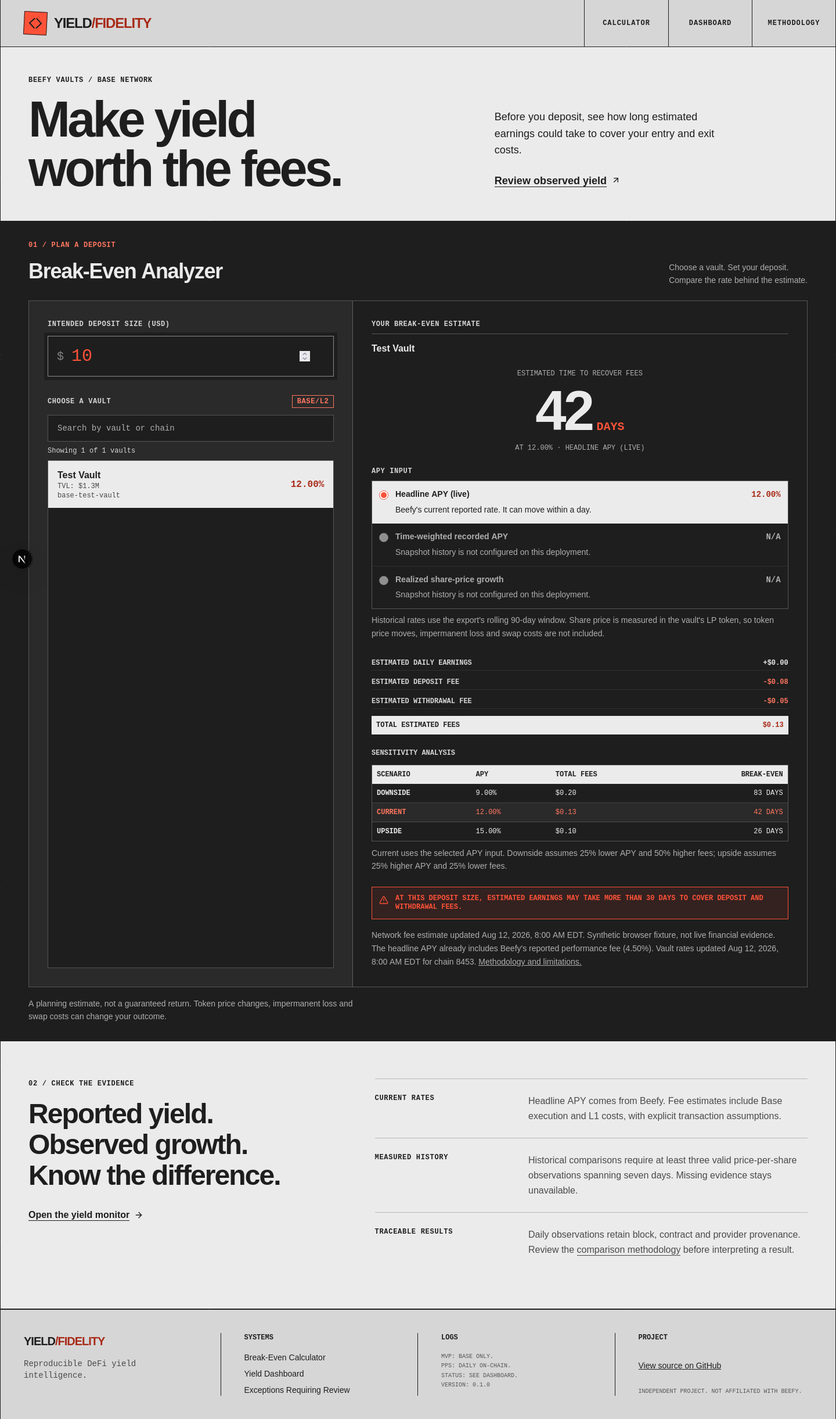
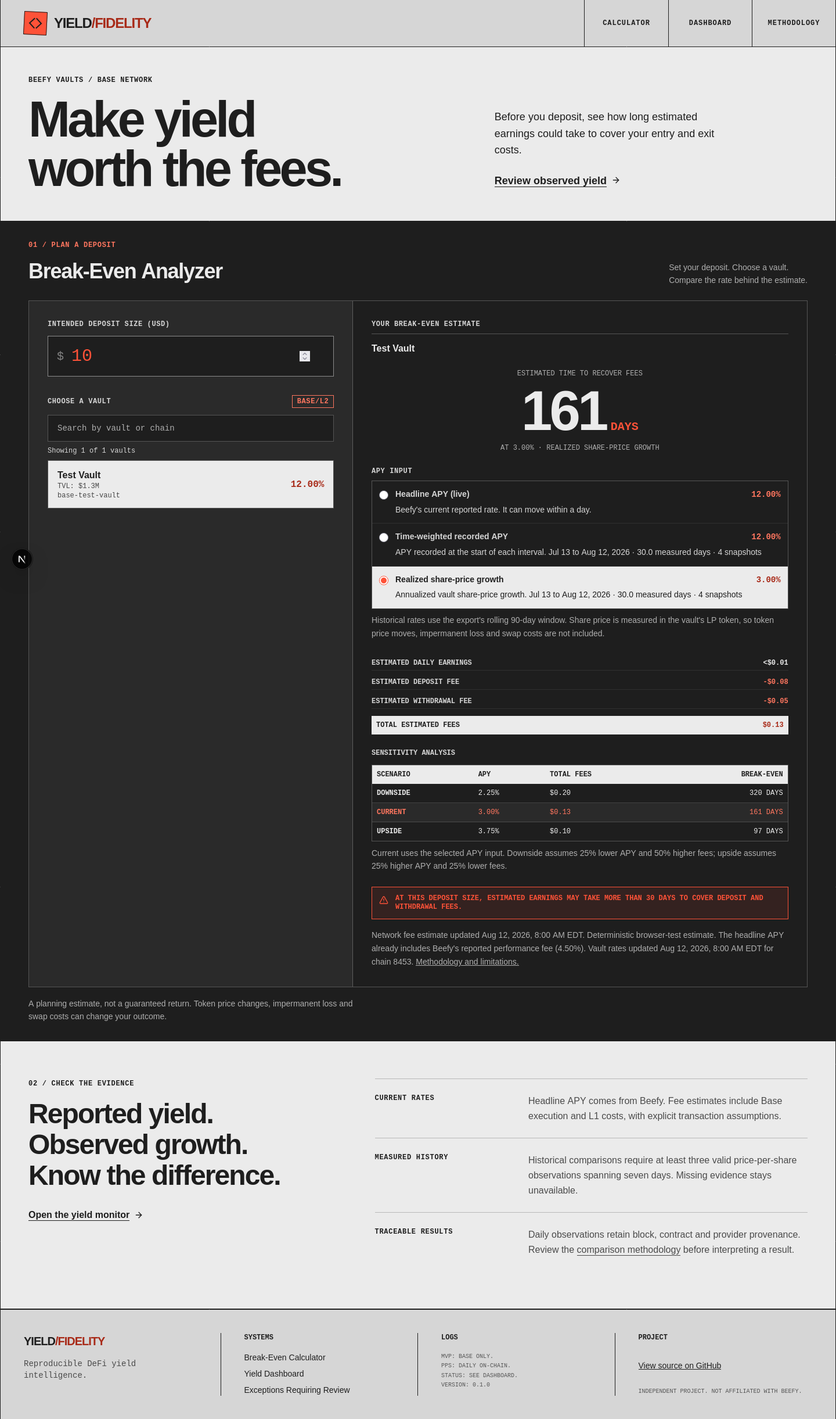
Repair council findings in mobile feedback and accessibility

diff --git a/src/components/Calculator.tsx b/src/components/Calculator.tsx
@@ -194,11 +194,11 @@ export function Calculator() {
     if (isLoading) {
         return (
             <div
-                className="grid min-h-[500px] grid-cols-1 border-[1.5px] border-[#D6D6D6]/30 bg-[#1E1E1E] md:grid-cols-2"
+                className="grid min-h-[500px] grid-cols-1 border-[1.5px] border-[#D6D6D6]/30 bg-[#1E1E1E] md:grid-cols-[5fr_7fr]"
                 aria-busy="true"
                 aria-live="polite"
             >
-                <div className="flex flex-col gap-5 lg:p-8 border-b-[1.5px] border-[#D6D6D6]/30 bg-[#2A2A2A] p-8 md:border-b-0 md:border-r-[1.5px]">
+                <div className="flex flex-col gap-8 border-b-[1.5px] border-[#D6D6D6]/30 bg-[#2A2A2A] p-5 lg:p-8 md:border-b-0 md:border-r-[1.5px]">
                     <div className="h-24 animate-pulse bg-[#D6D6D6]/10" aria-hidden="true" />
                     <div className="min-h-64 flex-1 animate-pulse bg-[#D6D6D6]/10" aria-hidden="true" />
                 </div>
@@ -229,7 +229,7 @@ export function Calculator() {
     }
 
     return (
-        <div className="calculator-workspace grid grid-cols-1 md:grid-cols-[5fr_7fr] gap-0 border-[1.5px] border-[#D6D6D6]/30 bg-[#1E1E1E]">
+        <div className="grid grid-cols-1 md:grid-cols-[5fr_7fr] gap-0 border-[1.5px] border-[#D6D6D6]/30 bg-[#1E1E1E]">
 
             {/* Input Panel - Brutalist forms */}
             <div className="p-5 lg:p-8 border-b-[1.5px] md:border-b-0 md:border-r-[1.5px] border-[#D6D6D6]/30 flex flex-col space-y-8 bg-[#2A2A2A]">
@@ -245,11 +245,20 @@ export function Calculator() {
                             type="number"
                             value={deposit}
                             onChange={(e) => setDeposit(e.target.value)}
-                            className="w-full bg-[#1E1E1E] border-[1.5px] border-[#D6D6D6]/60 px-10 py-4 text-3xl font-mono text-[#FE5238] focus:outline-none focus:border-[#FE5238] transition-colors rounded-none"
+                            className="w-full bg-[#1E1E1E] border-[1.5px] border-[#D6D6D6]/60 px-10 py-4 text-3xl font-mono text-[#FE5238] focus:border-[#FE5238] transition-colors rounded-none"
                             min="0"
                             step="any"
                         />
                     </div>
+                    {calculations && activeRate && (
+                        <a href="#break-even-result" className="mt-3 block border-l-2 border-[#FF765F] pl-3 text-sm leading-relaxed md:hidden">
+                            <span className="block font-semibold text-[#EBEBEB]">
+                                {calculations.willNeverBreakEven ? 'No break-even projected' : `${calculations.breakEvenDays} ${calculations.breakEvenDays === 1 ? 'day' : 'days'} to recover estimated fees`}
+                            </span>
+                            <span className="block break-words text-[#AFAFAF]">{selectedVault?.name} · {activeRate.label}</span>
+                            <span className="underline underline-offset-2">View rate options and full estimate ↓</span>
+                        </a>
+                    )}
                 </div>
 
                 <div className="flex-1 flex flex-col min-h-0">
@@ -264,21 +273,20 @@ export function Calculator() {
                         value={vaultSearch}
                         onChange={(event) => setVaultSearch(event.target.value)}
                         placeholder="Search by vault or chain"
-                        className="mb-2 w-full rounded-none border-[1.5px] border-[#D6D6D6]/30 bg-[#1E1E1E] px-4 py-3 font-mono text-sm text-[#EBEBEB] placeholder:text-[#AFAFAF] focus:border-[#FE5238] focus:outline-none"
+                        className="mb-2 w-full rounded-none border-[1.5px] border-[#D6D6D6]/30 bg-[#1E1E1E] px-4 py-3 font-mono text-sm text-[#EBEBEB] placeholder:text-[#AFAFAF] focus:border-[#FE5238]"
                     />
                     <p className="mb-2 font-mono text-xs text-[#D6D6D6]" aria-live="polite">
                         Showing {filteredVaults.length} of {vaults.length} vaults
                     </p>
-                    {/* md+: absolute within the flex-1 wrapper so the list fills the column height set by the results panel instead of stretching it */}
-                    <div className="relative flex-1 min-h-0 md:min-h-[250px]">
-                    <ul className="max-h-[180px] overflow-y-auto border-[1.5px] border-[#D6D6D6]/30 bg-[#1E1E1E] md:absolute md:inset-0 md:max-h-none" aria-labelledby="vault-list-label">
+                    <div className="min-h-0">
+                    <ul className="max-h-[180px] overflow-y-auto border-[1.5px] border-[#D6D6D6]/30 bg-[#1E1E1E] md:max-h-[480px]" aria-labelledby="vault-list-label">
                         {filteredVaults.map((vault) => (
                             <li key={vault.id}>
                                 <button
                                     type="button"
                                     aria-pressed={selectedVaultId === vault.id}
                                     onClick={() => setSelectedVaultId(vault.id)}
-                                    className={`w-full flex items-center justify-between px-4 py-3 border-b border-[#D6D6D6]/10 text-left transition-colors focus-visible:outline focus-visible:outline-2 focus-visible:outline-offset-[-3px] focus-visible:outline-[#FE5238] ${selectedVaultId === vault.id
+                                    className={`w-full flex items-center justify-between px-4 py-3 border-b border-[#D6D6D6]/10 text-left transition-colors focus-visible:outline focus-visible:outline-2 focus-visible:outline-offset-[-3px] focus-visible:outline-current ${selectedVaultId === vault.id
                                         ? 'bg-[#EBEBEB] text-[#1E1E1E]'
                                         : 'text-[#D6D6D6] hover:bg-[#D6D6D6]/10'
                                         }`}
@@ -306,8 +314,14 @@ export function Calculator() {
             </div>
 
             {/* Output Panel - High Contrast Output */}
-            <div className="p-5 lg:p-8 min-w-0 flex flex-col relative bg-[#1E1E1E]">
-
+            <section id="break-even-result" aria-label="Break-even result" className="p-5 lg:p-8 min-w-0 scroll-mt-4 flex flex-col relative bg-[#1E1E1E]">
+                <p className="sr-only" role="status" aria-live="polite" aria-atomic="true">
+                    {!calculations
+                        ? 'Choose a vault and enter a deposit greater than $0 to see an estimate.'
+                        : calculations.willNeverBreakEven
+                            ? `No break-even is projected at this deposit using the ${activeRate?.label}.`
+                            : `Estimated time to recover fees: ${calculations.breakEvenDays} ${calculations.breakEvenDays === 1 ? 'day' : 'days'} using the ${activeRate?.label} of ${formatPercentage(activeApy ?? 0)}.`}
+                </p>
                 {calculations ? (
                     <div className="estimate-result flex flex-col h-full justify-between">
                         <div className="w-full mb-8">
@@ -319,17 +333,12 @@ export function Calculator() {
 
                             <div className="mt-6 flex flex-col items-center justify-center text-center">
                                 <p className="font-mono text-xs uppercase text-[#AFAFAF] mb-2">Estimated time to recover fees</p>
-                                <p className="sr-only" role="status" aria-live="polite">
-                                    {calculations.willNeverBreakEven
-                                        ? `No break-even is projected at this deposit using the ${activeRate?.label}.`
-                                        : `Estimated time to recover fees: ${calculations.breakEvenDays} days using the ${activeRate?.label} of ${formatPercentage(activeApy ?? 0)}.`}
-                                </p>
                                 {calculations.willNeverBreakEven ? (
                                     <div className="text-4xl lg:text-5xl font-black tracking-tighter text-[#FE5238]">No break-even</div>
                                 ) : (
                                     <div className="flex items-baseline gap-2">
                                         <span className="text-7xl lg:text-8xl font-black tracking-tighter text-[#EBEBEB]">{calculations.breakEvenDays}</span>
-                                        <span className="font-mono font-bold uppercase text-xl text-[#FE5238]">Days</span>
+                                        <span className="font-mono font-bold uppercase text-xl text-[#FE5238]">{calculations.breakEvenDays === 1 ? 'Day' : 'Days'}</span>
                                     </div>
                                 )}
                                 {activeRate && activeApy !== null && (
@@ -351,7 +360,7 @@ export function Calculator() {
                                         return (
                                             <label
                                                 key={option.basis}
-                                                className={`flex items-start gap-3 border-b border-[#D6D6D6]/10 px-3 py-3 last:border-b-0 has-[input:focus-visible]:outline has-[input:focus-visible]:outline-2 has-[input:focus-visible]:outline-offset-[-3px] has-[input:focus-visible]:outline-[#FE5238] ${isActive
+                                                className={`flex items-start gap-3 border-b border-[#D6D6D6]/10 px-3 py-3 last:border-b-0 has-[input:focus-visible]:outline has-[input:focus-visible]:outline-2 has-[input:focus-visible]:outline-offset-[-3px] has-[input:focus-visible]:outline-current ${isActive
                                                     ? 'bg-[#EBEBEB] text-[#1E1E1E]'
                                                     : isDisabled
                                                         ? 'cursor-not-allowed text-[#AFAFAF]'
@@ -392,7 +401,7 @@ export function Calculator() {
                         <div className="w-full font-mono text-xs uppercase font-bold text-[#D6D6D6] space-y-3 mt-auto">
                             <div className="flex justify-between border-b border-[#D6D6D6]/10 pb-1">
                                 <span>Estimated daily earnings</span>
-                                <span className="text-[#EBEBEB]">+{formatCurrency(calculations.dailyYield)}</span>
+                                <span className="text-[#EBEBEB]">{calculations.dailyYield > 0 && calculations.dailyYield < 0.01 ? '<$0.01' : formatCurrency(calculations.dailyYield)}</span>
                             </div>
                             <div className="flex justify-between border-b border-[#D6D6D6]/10 pb-1">
                                 <span>Estimated deposit fee</span>
@@ -417,7 +426,7 @@ export function Calculator() {
                                 role="region"
                                 aria-label="Break-even sensitivity table"
                             >
-                                <table className="w-full min-w-[420px] font-mono text-xs uppercase text-left">
+                                <table className="w-full font-mono text-xs uppercase text-left">
                                     <caption className="sr-only">Break-even sensitivity under downside, current, and upside assumptions, using the {activeRate?.label}</caption>
                                     <thead className="bg-[#EBEBEB] text-[#1E1E1E]">
                                         <tr><th className="p-2">Scenario</th><th className="p-2">APY</th><th className="p-2">Total fees</th><th className="p-2 text-right">Break-even</th></tr>
@@ -428,7 +437,7 @@ export function Calculator() {
                                                 <td className="p-2 font-bold">{scenario.label}</td>
                                                 <td className="p-2">{formatPercentage(scenario.apy)}</td>
                                                 <td className="p-2">{formatCurrency(scenario.totalGasCostUsd)}</td>
-                                                <td className="p-2 text-right">{scenario.breakEvenDays === null ? 'N/A' : `${scenario.breakEvenDays} days`}</td>
+                                                <td className="p-2 text-right">{scenario.breakEvenDays === null ? 'N/A' : `${scenario.breakEvenDays} ${scenario.breakEvenDays === 1 ? 'day' : 'days'}`}</td>
                                             </tr>
                                         ))}
                                     </tbody>
@@ -458,11 +467,11 @@ export function Calculator() {
                         )}
                     </div>
                 ) : (
-                    <div className="flex-1 flex flex-col items-center justify-center font-mono text-[#D6D6D6]/50 text-xs px-10 text-center border-[1.5px] border-dashed border-[#D6D6D6]/20">
+                    <div className="flex-1 flex flex-col items-center justify-center text-[#AFAFAF] text-sm px-4 text-center border-[1.5px] border-dashed border-[#D6D6D6]/20">
                         Choose a vault and enter a deposit greater than $0 to see an estimate.
                     </div>
                 )}
-            </div>
+            </section>
         </div>
     );
 }

diff --git a/tests/e2e/app.spec.ts b/tests/e2e/app.spec.ts
@@ -1,3 +1,4 @@
+import path from 'node:path';
 import AxeBuilder from '@axe-core/playwright';
 import { expect, test } from '@playwright/test';
 
@@ -88,10 +89,9 @@ test('calculator presents its model and methodology', async ({ page }) => {
     await expect(page.getByRole('table', { name: /break-even sensitivity/i })).toBeVisible();
 });
 
-test('homepage is accessible and does not overflow a mobile viewport', async ({ page }) => {
+test('homepage is accessible and fits the configured viewport', async ({ page }) => {
     await page.route('**/api/data', (route) => route.fulfill({ json: calculatorData }));
     await page.route('**/api/export?*', (route) => route.fulfill({ json: { data: historyRows, requestId: 'e2e' } }));
-    await page.setViewportSize({ width: 390, height: 844 });
     await page.goto('/');
     await page.getByRole('radio', { name: /realized share-price growth/i }).check();
     // Hover an unselected rate so its hover background is part of the contrast check.
@@ -161,10 +161,12 @@ test('deposit planning stays discoverable and recovers from invalid input and se
     const position = await deposit.boundingBox();
     expect(position?.y).toBeLessThan(page.viewportSize()!.width < 768 ? 720 : 900);
     await deposit.fill('0');
-    await expect(page.getByText('Choose a vault and enter a deposit greater than $0 to see an estimate.')).toBeVisible();
+    await expect(page.getByRole('status')).toContainText('Choose a vault and enter a deposit greater than $0 to see an estimate.');
+    const invalidState = await new AxeBuilder({ page }).withTags(['wcag2a', 'wcag2aa', 'wcag21a', 'wcag21aa']).analyze();
+    expect(invalidState.violations).toEqual([]);
     await deposit.fill('10');
     await expect(page.getByRole('status').filter({ hasText: /estimated time to recover fees/i })).toContainText('42 days');
-    await expect(page.locator('.estimate-result')).toContainText('Test Vault');
+    await expect(page.getByRole('region', { name: 'Break-even result', exact: true })).toContainText('Test Vault');
     await page.getByLabel('Search vaults').fill('no such vault');
     await expect(page.getByText('No vaults match your search.')).toBeVisible();
     await page.getByLabel('Search vaults').fill('Test');
@@ -178,8 +180,69 @@ test('calculator retries a failed rate request', async ({ page }) => {
     });
     await page.goto('/');
     await expect(page.getByRole('alert').filter({ hasText: /Live vault or network data/i })).toBeVisible();
+    const errorState = await new AxeBuilder({ page }).withTags(['wcag2a', 'wcag2aa', 'wcag21a', 'wcag21aa']).analyze();
+    expect(errorState.violations).toEqual([]);
     unavailable = false;
     await page.getByRole('button', { name: 'Retry', exact: true }).click();
     await expect(page.getByLabel(/intended deposit size/i)).toBeVisible();
-    await expect(page.locator('.estimate-result')).toContainText('Test Vault');
+    await expect(page.getByRole('region', { name: 'Break-even result', exact: true })).toContainText('Test Vault');
+});
+
+
+test('sensitivity outputs fit and phone deposit feedback stays adjacent', async ({ page }) => {
+    await page.route('**/api/data', (route) => route.fulfill({ json: calculatorData }));
+    await page.route('**/api/export?*', (route) => route.fulfill({ json: { data: historyRows, requestId: 'e2e' } }));
+    await page.goto('/');
+    const deposit = page.getByLabel(/intended deposit size/i);
+    await deposit.fill('10');
+    const result = page.getByRole('region', { name: 'Break-even result', exact: true });
+    await expect(result).toContainText('<$0.01');
+    const sensitivity = page.getByRole('region', { name: 'Break-even sensitivity table', exact: true });
+    expect(await sensitivity.evaluate((element) => element.scrollWidth <= element.clientWidth)).toBe(true);
+    const phoneFeedback = page.getByRole('link', { name: /View rate options and full estimate/i });
+    if (page.viewportSize()!.width < 768) {
+        await expect(phoneFeedback).toContainText('42 days');
+        const inputBox = await deposit.boundingBox();
+        const feedbackBox = await phoneFeedback.boundingBox();
+        expect(feedbackBox!.y - (inputBox!.y + inputBox!.height)).toBeLessThan(32);
+    }
+    await page.getByRole('radio', { name: /realized share-price growth/i }).check();
+    await expect(page.getByRole('status')).toContainText('161 days');
+    if (page.viewportSize()!.width < 768) await expect(phoneFeedback).toContainText('161 days');
+    if (process.env.DESIGN_SCREENSHOTS_DIR) {
+        await page.emulateMedia({ reducedMotion: 'reduce' });
+        for (const width of [1440, 768, 390]) {
+            await page.setViewportSize({ width, height: 1000 });
+            await page.evaluate(() => {
+                if (document.activeElement instanceof HTMLElement) document.activeElement.blur();
+                window.scrollTo(0, 0);
+                return new Promise<void>((resolve) => requestAnimationFrame(() => requestAnimationFrame(() => resolve())));
+            });
+            console.log('Design render', width, await deposit.boundingBox(), await page.getByRole('heading', { level: 1 }).evaluate((element) => getComputedStyle(element).fontSize));
+            await page.screenshot({ path: path.join(process.env.DESIGN_SCREENSHOTS_DIR, `calculator-${width}.png`), fullPage: true });
+        }
+    }
+});
+
+test('phone picker bounds a long catalog and supports a long vault name', async ({ page }) => {
+    await page.setViewportSize({ width: 390, height: 844 });
+    const manyVaults = Array.from({ length: 26 }, (_, index) => ({
+        ...calculatorData.vaults[0],
+        id: `base-fixture-${index}`,
+        name: index === 25 ? 'A very long vault name with multiple strategy identifiers and token pairs' : `Fixture vault ${index + 1}`,
+    }));
+    await page.route('**/api/data', (route) => route.fulfill({ json: { ...calculatorData, vaults: manyVaults } }));
+    await page.route('**/api/export?*', (route) => route.fulfill({ status: 503, json: { code: 'DATA_NOT_CONFIGURED' } }));
+    await page.goto('/');
+    const picker = page.getByRole('list', { name: /Choose a vault/i });
+    await expect(picker.getByRole('button')).toHaveCount(26);
+    expect((await picker.boundingBox())!.height).toBeLessThanOrEqual(180);
+    if (process.env.DESIGN_SCREENSHOTS_DIR) {
+        await page.emulateMedia({ reducedMotion: 'reduce' });
+        await page.screenshot({ path: path.join(process.env.DESIGN_SCREENSHOTS_DIR, 'calculator-390-catalog.png'), fullPage: true });
+    }
+    await page.getByLabel('Search vaults').fill('very long');
+    await picker.getByRole('button').click();
+    await expect(page.getByRole('region', { name: 'Break-even result', exact: true })).toContainText(manyVaults[25].name);
+    expect(await page.evaluate(() => document.documentElement.scrollWidth <= window.innerWidth)).toBe(true);
 });

diff --git a/src/app/page.tsx b/src/app/page.tsx
@@ -1,5 +1,5 @@
 import { Calculator } from '@/components/Calculator';
-import { ArrowRight, ArrowUpRight } from 'lucide-react';
+import { ArrowRight } from 'lucide-react';
 import Link from 'next/link';
 
 export default function Home() {
@@ -13,7 +13,7 @@ export default function Home() {
         <div className="decision-intro-copy">
           <p>Before you deposit, see how long estimated earnings could take to cover your entry and exit costs.</p>
           <Link href="/dashboard" className="inline-flex min-h-11 items-center gap-2 font-semibold underline underline-offset-4">
-            Review observed yield <ArrowUpRight className="h-4 w-4" aria-hidden="true" />
+            Review observed yield <ArrowRight className="h-4 w-4" aria-hidden="true" />
           </Link>
         </div>
       </section>
@@ -24,7 +24,7 @@ export default function Home() {
             <p className="eyebrow text-[#FF765F]">01 / Plan a deposit</p>
             <h2 id="calculator-title">Break-Even Analyzer</h2>
           </div>
-          <p>Choose a vault. Set your deposit.<br />Compare the rate behind the estimate.</p>
+          <p>Set your deposit. Choose a vault.<br />Compare the rate behind the estimate.</p>
         </div>
         <Calculator />
         <p className="calculator-note">A planning estimate, not a guaranteed return. Token price changes, impermanent loss and swap costs can change your outcome.</p>

diff --git a/playwright.config.ts b/playwright.config.ts
@@ -1,6 +1,7 @@
 import { defineConfig, devices } from '@playwright/test';
 
 const e2ePort = 3187;
+const useFirefox = process.env.E2E_BROWSER === 'firefox';
 
 export default defineConfig({
     testDir: './tests/e2e',
@@ -13,8 +14,8 @@ export default defineConfig({
         screenshot: 'only-on-failure',
     },
     projects: [
-        { name: 'desktop-chromium', use: { ...devices['Desktop Chrome'] } },
-        { name: 'mobile-chromium', use: { ...devices['Pixel 7'] } },
+        { name: useFirefox ? 'desktop-firefox' : 'desktop-chromium', use: { ...devices[useFirefox ? 'Desktop Firefox' : 'Desktop Chrome'], viewport: { width: 1440, height: 900 } } },
+        { name: useFirefox ? 'mobile-firefox' : 'mobile-chromium', use: { ...devices[useFirefox ? 'Desktop Firefox' : 'Pixel 7'], viewport: { width: 390, height: 844 } } },
     ],
     webServer: {
         command: `NEXT_PUBLIC_SUPABASE_URL= NEXT_PUBLIC_SUPABASE_ANON_KEY= npm run dev -- --port ${e2ePort}`,

diff --git a/src/app/globals.css b/src/app/globals.css
@@ -176,11 +176,12 @@
   .estimate-result { animation: result-in 400ms ease-out both; }
   @keyframes result-in { from { opacity: .6; transform: translateY(8px); } to { opacity: 1; transform: translateY(0); } }
   @media (max-width: 767px) {
-    .decision-intro { grid-template-columns: 1fr; gap: 1.5rem; padding: 2rem 1.5rem; }
+    .decision-intro { grid-template-columns: 1fr; gap: 1rem; padding: 1.5rem; }
     .decision-intro-copy { font-size: 1rem; }
     .calculator-section { padding: 1.5rem 1rem; }
     .calculator-heading { display: block; padding-inline: .5rem; }
-    .calculator-heading > p { margin-top: .75rem; }
+    .calculator-heading > p { margin-top: .5rem; }
+    .decision-intro h1 { font-size: 2.75rem; }
     .evidence-section { grid-template-columns: 1fr; gap: 2rem; padding: 3rem 1.5rem; }
     .evidence-rows > div { grid-template-columns: 1fr; gap: .5rem; }
   }

diff --git a/docs/design-loop.md b/docs/design-loop.md
@@ -27,3 +27,42 @@ Use this bounded workflow for a focused interface improvement. A request to use 
 - `npx playwright test --workers=2`: 20/20 passed using a validation-only config with Desktop Firefox and a 390×844 Firefox viewport. Repository Chromium projects remain unchanged for CI.
 - Chromium local tests: partial interaction checks passed; screenshot and accessibility completion unavailable because capture hangs even for a standalone Hello page. Firefox provided completed visual/accessibility evidence.
 - `git diff --check`: passed.
+
+### Council round 1 — pinned head 7174954
+
+Actual reviewers: Claude Opus 5.5 / high (claudeAgent), GPT-6.1 Sol / high (Codex), Gemini 4 Argon High (Antigravity). Code scores: 8.0, 8.5, 8.3 / 10 respectively; Claude design score 7.0. Usage was not exposed. Full independent responses and task IDs are retained in `design-evidence/council-round-1.json`.
+
+| Finding | Source / severity | Disposition in shared repair |
+| --- | --- | --- |
+| Hidden phone sensitivity output | Claude D1 / medium; Gemini SPEC-01 / medium; Sol nonblocking | Fixed: remove forced minimum width; assert table has no inner horizontal overflow. |
+| Daily yield rounds to $0.00 | Claude D2 / medium-low | Fixed: positive sub-cent earnings display as `<$0.01`; no formula change. |
+| Invalid input contrast and disappearing announcement | Gemini STD-01 / medium; Claude S4 / low | Fixed: solid subdued text and persistent live region outside conditional results; invalid-state Axe check. |
+| Focus on light selected rows | Gemini STD-02 / low | Fixed: use current text color for inset outline; restore global input focus outline. |
+| Loading split/padding typo | Claude S1/S2; Gemini STD-03 / low | Fixed: same 5:7 geometry and padding as loaded state. |
+| Desktop accessibility proof absent | Sol SPEC-01 / medium | Fixed: homepage Axe no longer resets the desktop project to phone width. Explicit 1440×900 and 390×844 projects. |
+| Mobile input/result distance | Claude D3; Gemini design critique | Improved: shorter phone intro plus compact live result/source beside deposit, linked to detailed result. |
+| Styling selectors in tests | Claude S3 / low | Fixed: named result region replaces animation-class selectors. |
+| Order/icon inconsistency | Claude P2/D4 / low | Fixed: copy matches deposit-first form; consistent internal arrow. |
+| Empty desktop list; long catalog proof | Claude D5/V1; Gemini critique; Sol missing proof | Improved: cap desktop picker at 480px; phone remains 180px; exercise 26 vaults and a long-name selection. |
+| Reproduction and tablet evidence | Claude V3/V4; Gemini history-render gap | Fixed: committed Firefox switch and opt-in screenshot capture; render 768px and enabled historical-rate state. |
+| Many keyboard tab stops in catalog | Gemini nonblocking critique | Deferred: native buttons remain keyboard-operable; roving selection needs a separately scoped interaction change. |
+| Headline wording / quieter brand | Claude preference; Gemini tradeoff | Retained: planning language, source labels and caveats qualify estimates; task-first hierarchy is intentional. |
+
+Disagreement remains recorded: Sol treated the inherited phone table clipping as nonblocking; Gemini requested changes and Claude recommended repair. We accepted the evidence and fixed it regardless of severity labels.
+
+Repair budget: **1 used / 0 remaining**. Verification of this pass is pending. No further repair loop is authorized by this workflow's default.
+
+### Reproduce
+
+From an ordinary checkout with local dependencies, run `npm ci`, `npm run check`, and `npm run test:e2e` for CI's default Chromium projects. For the alternate engine: `npx playwright install firefox` then `E2E_BROWSER=firefox npm run test:e2e`.
+
+To regenerate the committed synthetic renders, run `E2E_BROWSER=firefox DESIGN_SCREENSHOTS_DIR="$PWD/docs/design-evidence" npx playwright test --project=desktop-firefox --grep 'sensitivity outputs|phone picker'`. Screenshots are opt-in; normal CI does not rewrite the committed evidence. Refresh SHA256SUMS after inspection. Build and install inside disk-backed scratch when following this machine's workspace instructions.
+
+### Repair proof
+
+- Lint, 54 unit tests and production build pass after the repair. Integration opt-in remains skipped.
+- Firefox suite: 24/24 pass, including desktop and phone homepage Axe scans, invalid-deposit and API-error Axe scans, 26-vault/long-name behavior, table fit and adjacent phone feedback. Two targeted capture tests also pass after final copy normalization.
+- Final synthetic renders inspected at 1440px, 768px and 390px; deposit field top is 578px, 526px and 666px respectively. Enabled historical rate is selected in the main renders. Phone summary updates from 42 days (headline) to 161 days (realized) in the interaction test.
+- Sensitivity output stays inside its container at both tested project widths. The phone picker remains at most 180px with 26 vaults.
+- Screenshot capture normalizes focus/scroll and waits for layout after resizing. Singular day labels were corrected during this same pass.
+- Local Chromium capture remains unavailable; CI's default desktop/mobile Chromium run is a merge gate. No Safari, native touch-device or human screen-reader test is claimed.

diff --git a/DIRECTION.md b/DIRECTION.md
@@ -18,7 +18,7 @@ Motion off Final result remains visible; animation and transition reduced
 - Retain one primary heading and the existing Break-Even Analyzer heading for orientation.
 - Use sentence case and plain instructions in the form; keep technical IDs secondary.
 - Keep the result, selected vault, APY basis and uncertainty together. Never imply that headline APY is realized yield.
-- Bound the vault picker so a large catalog cannot bury the result on mobile.
+- Bound the vault picker; keep a compact result beside the deposit on mobile.
 - Keep sensitivity, fee provenance and methodology available. No new yield claims, sample results, network changes or investment recommendations.
 - Preserve keyboard-native radio controls, visible focus, live result announcements and all unavailable/loading/error states.
 
@@ -32,7 +32,7 @@ Homepage and calculator first. Shared navigation keeps existing routes. Existing
 2. Deposit, vault search/selection and APY basis remain keyboard accessible and update the displayed estimate.
 3. Selected vault and rate basis are visible beside the result. Invalid deposits explain the next step.
 4. Historical rates remain disabled without sufficient observations; API failures have a working retry.
-5. No page-level horizontal overflow at 390px; automated WCAG A/AA checks pass at desktop and phone widths in an available browser. Record engine-specific failures separately.
+5. No page-level or sensitivity-table horizontal overflow at 390px; automated WCAG A/AA checks pass at desktop and phone widths in an available browser. Record engine-specific failures separately.
 6. Existing model tests, lint and production build pass; no backend or financial logic changes.
 
 ## Verification limits

diff --git a/docs/design-evidence/README.md b/docs/design-evidence/README.md
@@ -1,5 +1,7 @@
 # Design evidence
 
-These Firefox renders use synthetic browser fixtures, not live yield evidence: Test Vault, $10 deposit, 12% headline APY, $0.08 entry fee and $0.05 exit fee. The model returns 42 days. Desktop width is 1440px; phone width is 390px. Reduced motion was enabled. The Next.js development indicator is tooling, not product UI.
+The main Firefox renders use synthetic fixtures: Test Vault, $10 deposit, 12% headline APY, $0.08 entry fee and $0.05 exit fee. Four snapshots over 30 days show 3% annualized share-price growth. The realized basis is selected in the final screenshots, producing 161 days; switching to the headline basis produces 42 days. These are test inputs, not live yield evidence.
 
-Hashes are in SHA256SUMS. No human usability study was performed. These screenshots demonstrate presentation, not investment performance.
+Widths: 1440px desktop, 768px tablet and 390px phone. The separate 390px catalog render has 26 synthetic vaults with unavailable historical data, showing the bounded picker. Reduced motion was enabled. The Next.js development indicator is tooling, not product UI.
+
+Hashes are in SHA256SUMS. Reproduction commands and council dispositions are in ../design-loop.md. No human usability study was performed. These screenshots demonstrate presentation, not investment performance.
